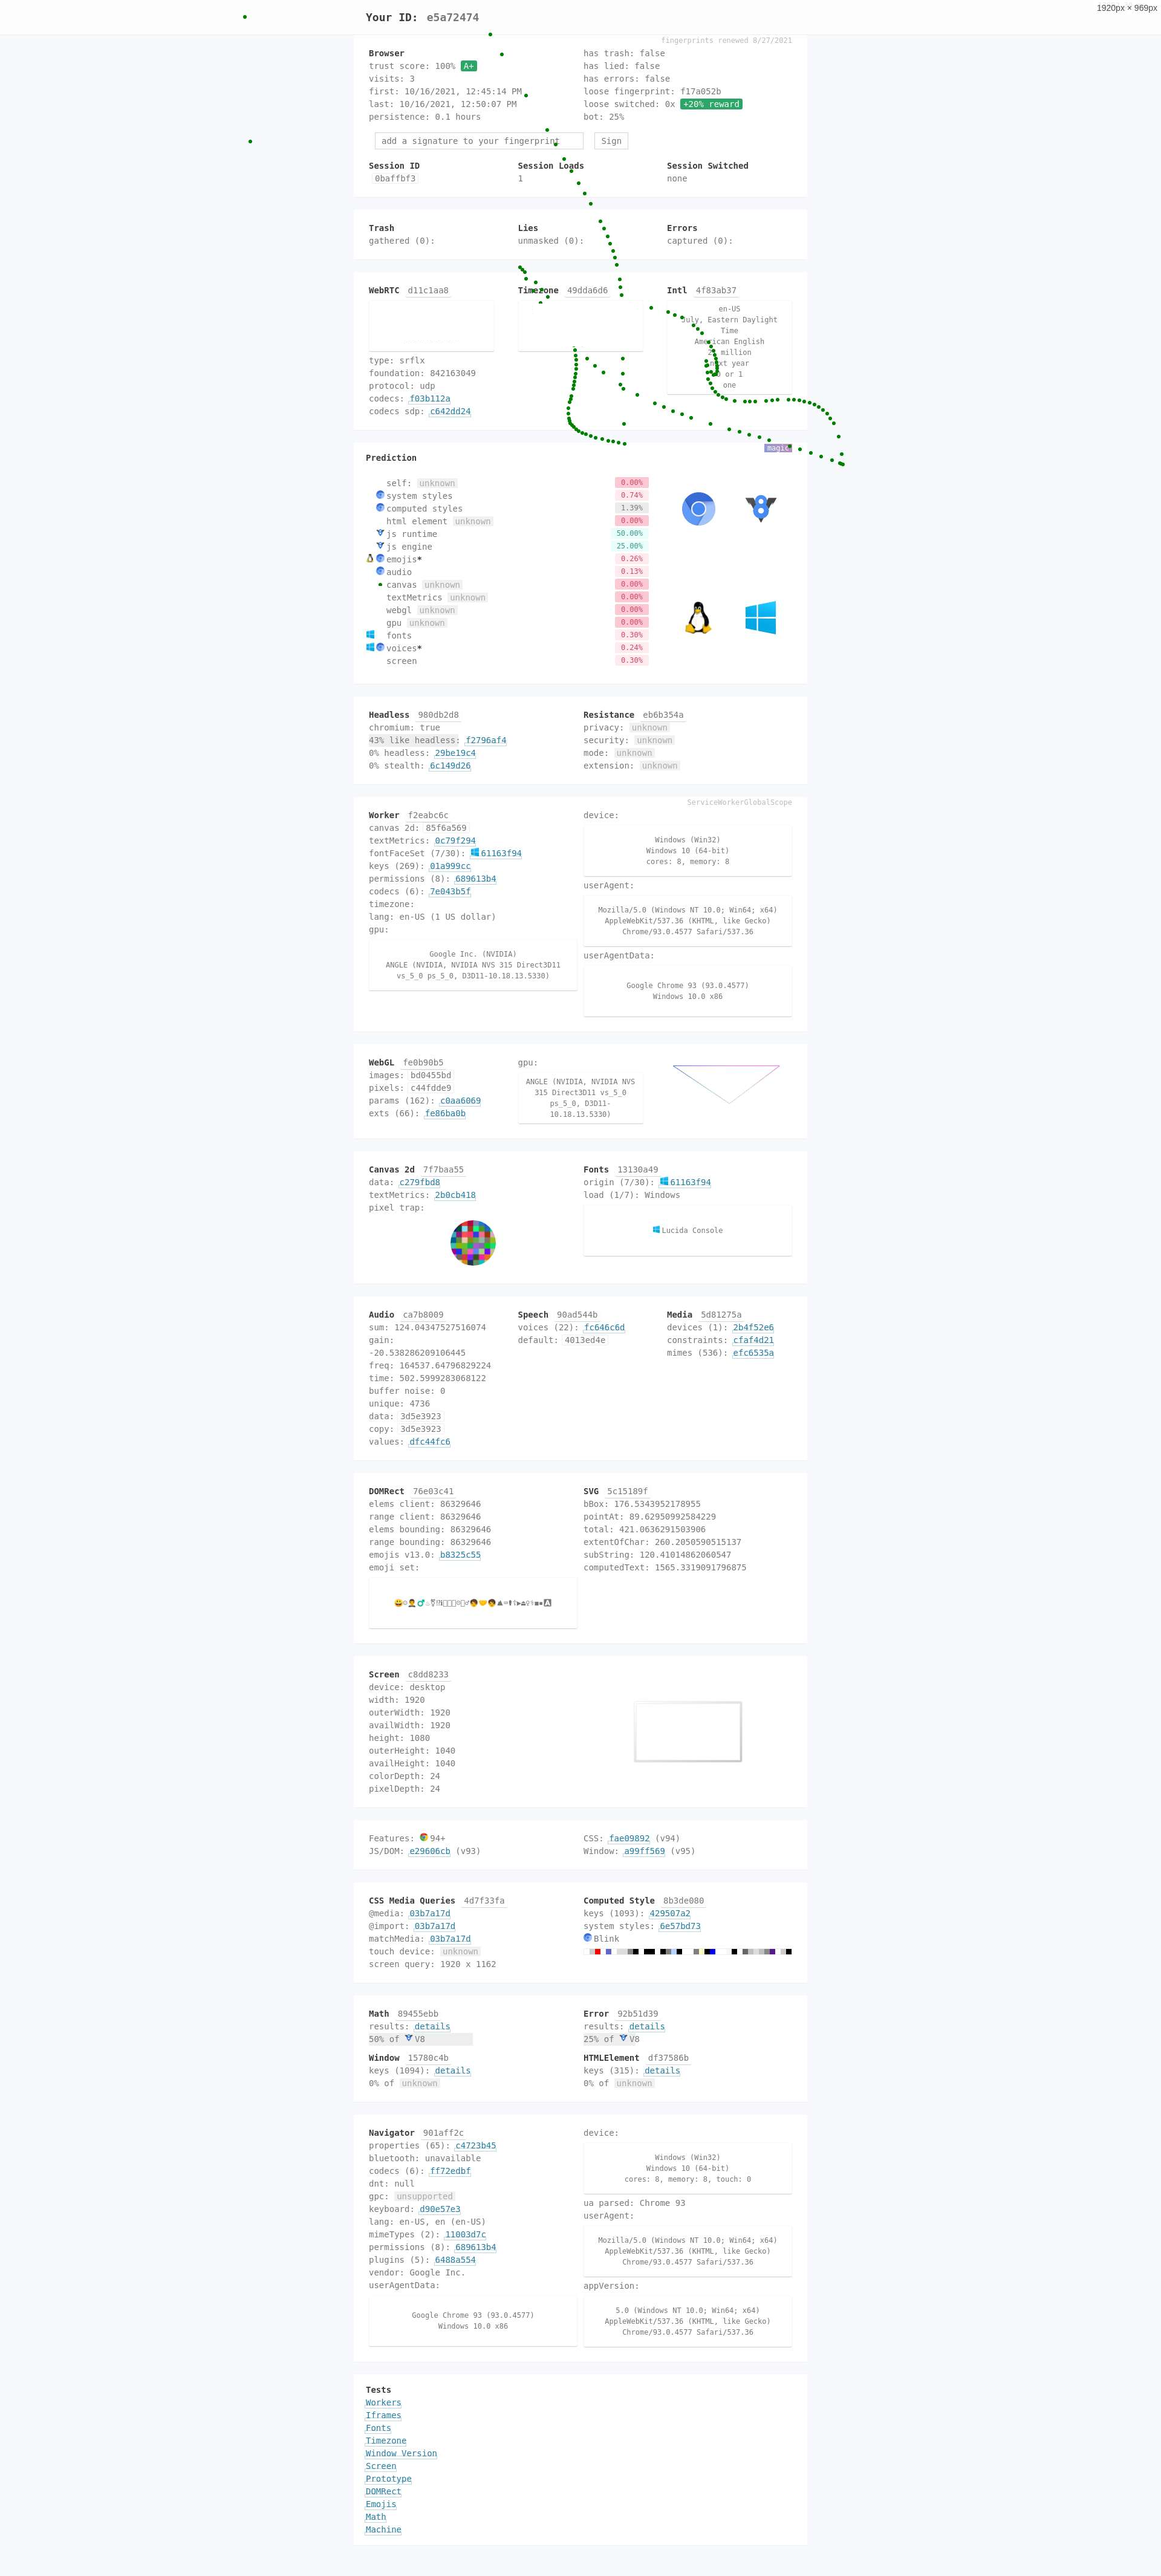
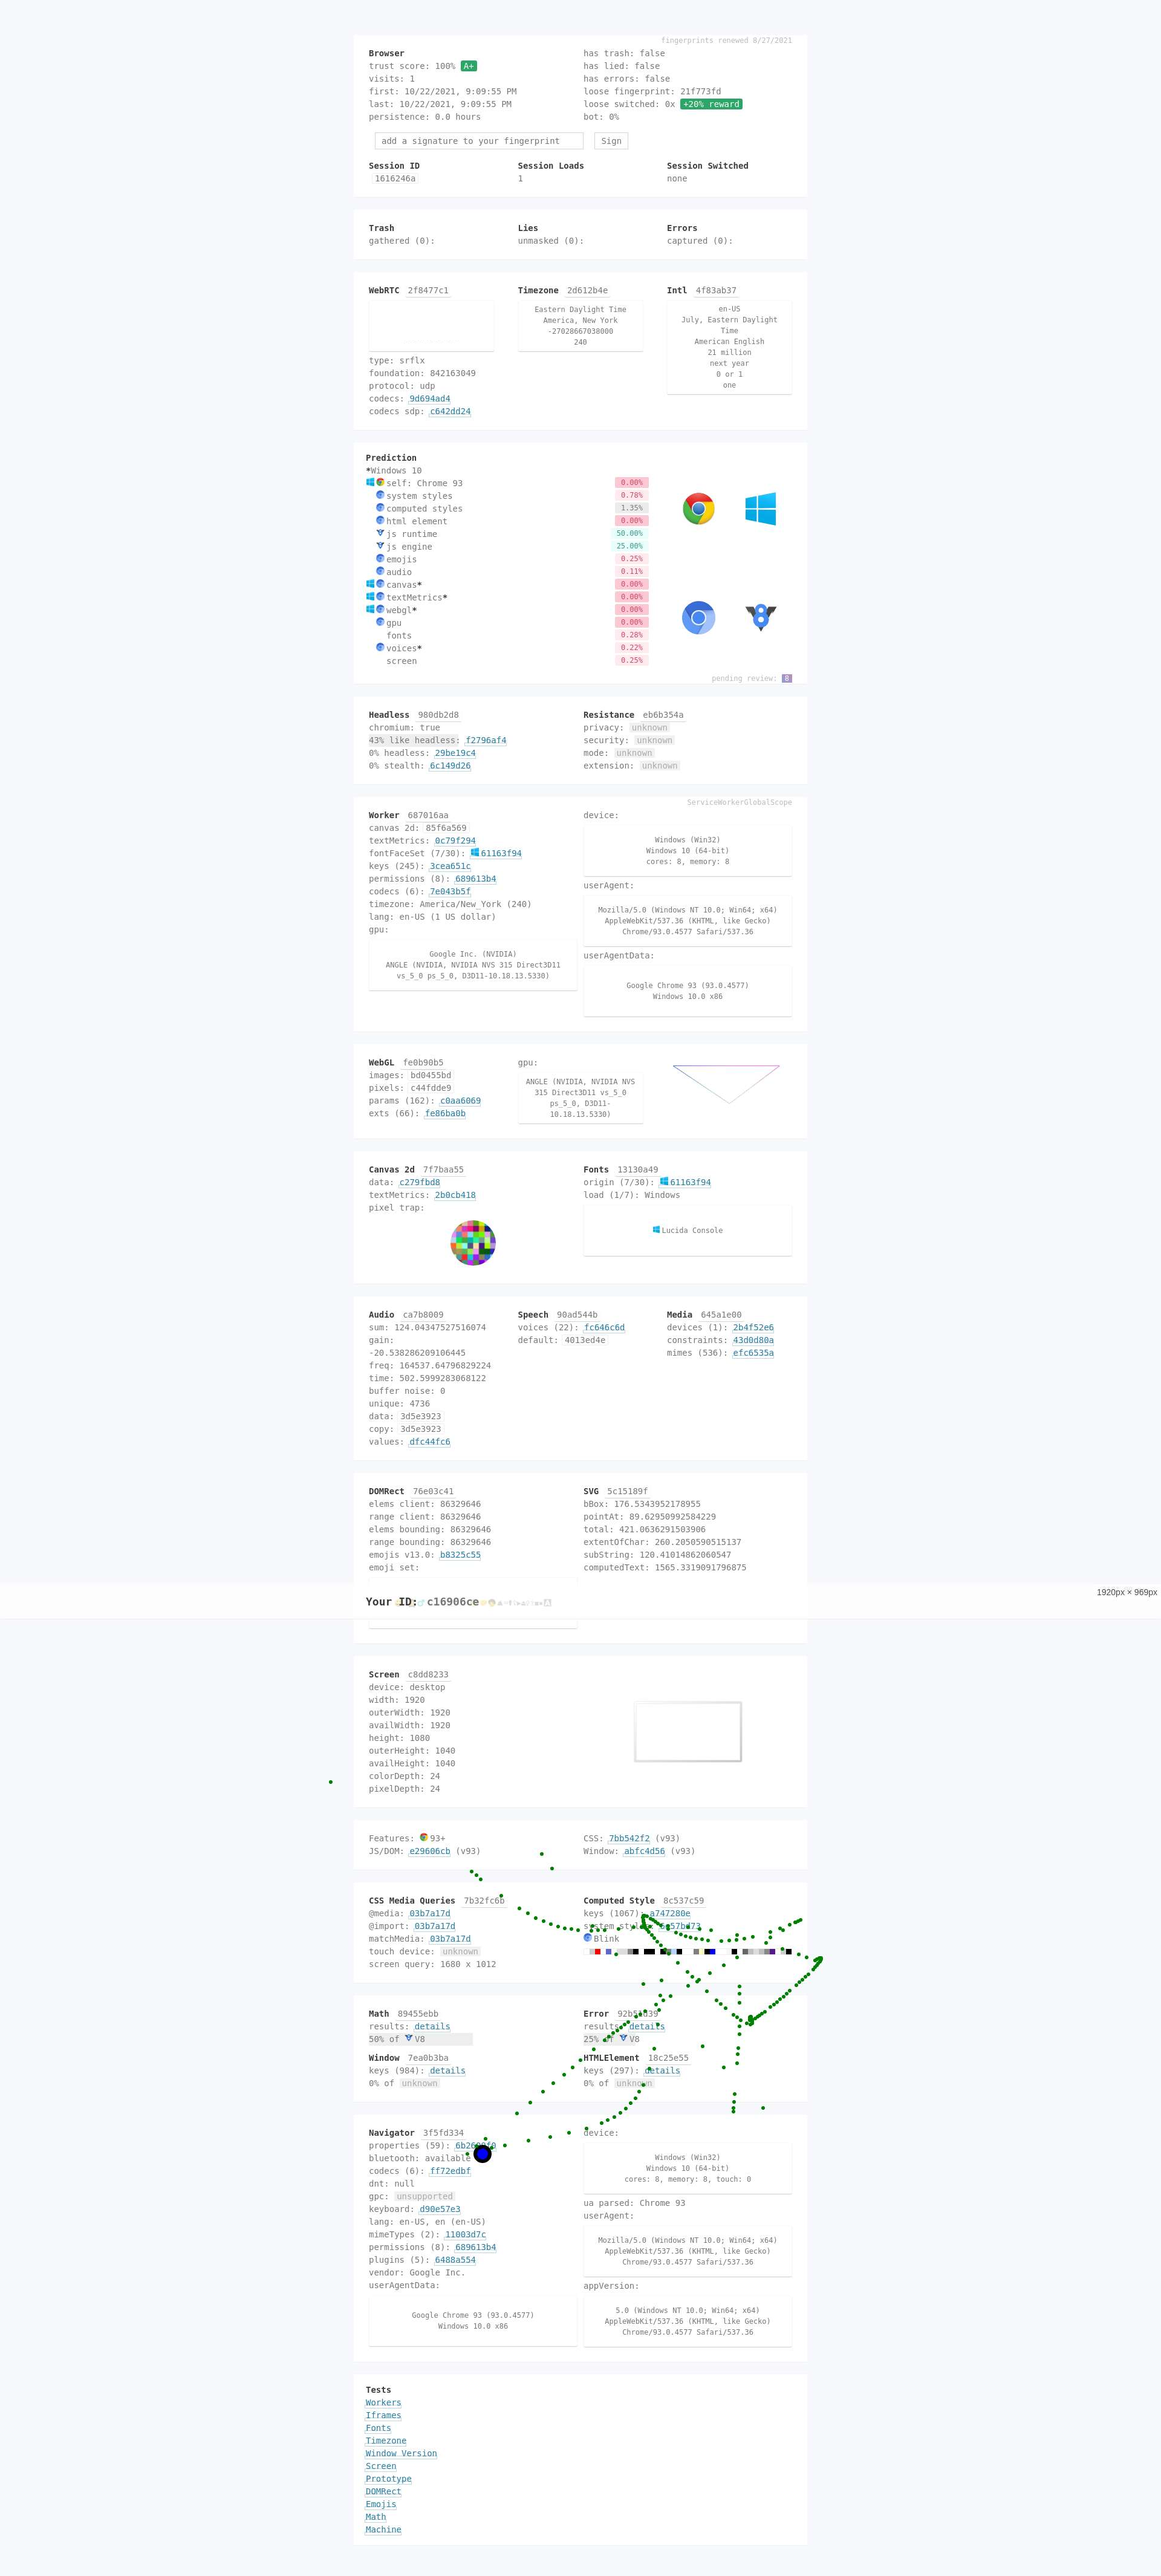
Since removing --enable-experimental-web-platform-features and writing the code manually to support bluetooth, creepjs detects bot from 25% to 0%, and there is no way to predict out the linux system, so happy!

diff --git a/src/Driver.ts b/src/Driver.ts
@@ -34,7 +34,7 @@ export const defaultLaunchArgs = [
     '--enable-webgl',
     '--prerender-from-omnibox=disabled',
     '--enable-web-bluetooth',
-    '--enable-experimental-web-platform-features', // Make Chrome for Linux support Bluetooth. eg: navigator.bluetooth, window.BluetoothUUID
+    // '--enable-experimental-web-platform-features', // Make Chrome for Linux support Bluetooth. eg: navigator.bluetooth, window.BluetoothUUID
     '--ignore-certificate-errors',
     '--ignore-certificate-errors-spki-list',
     '--disable-web-security',
